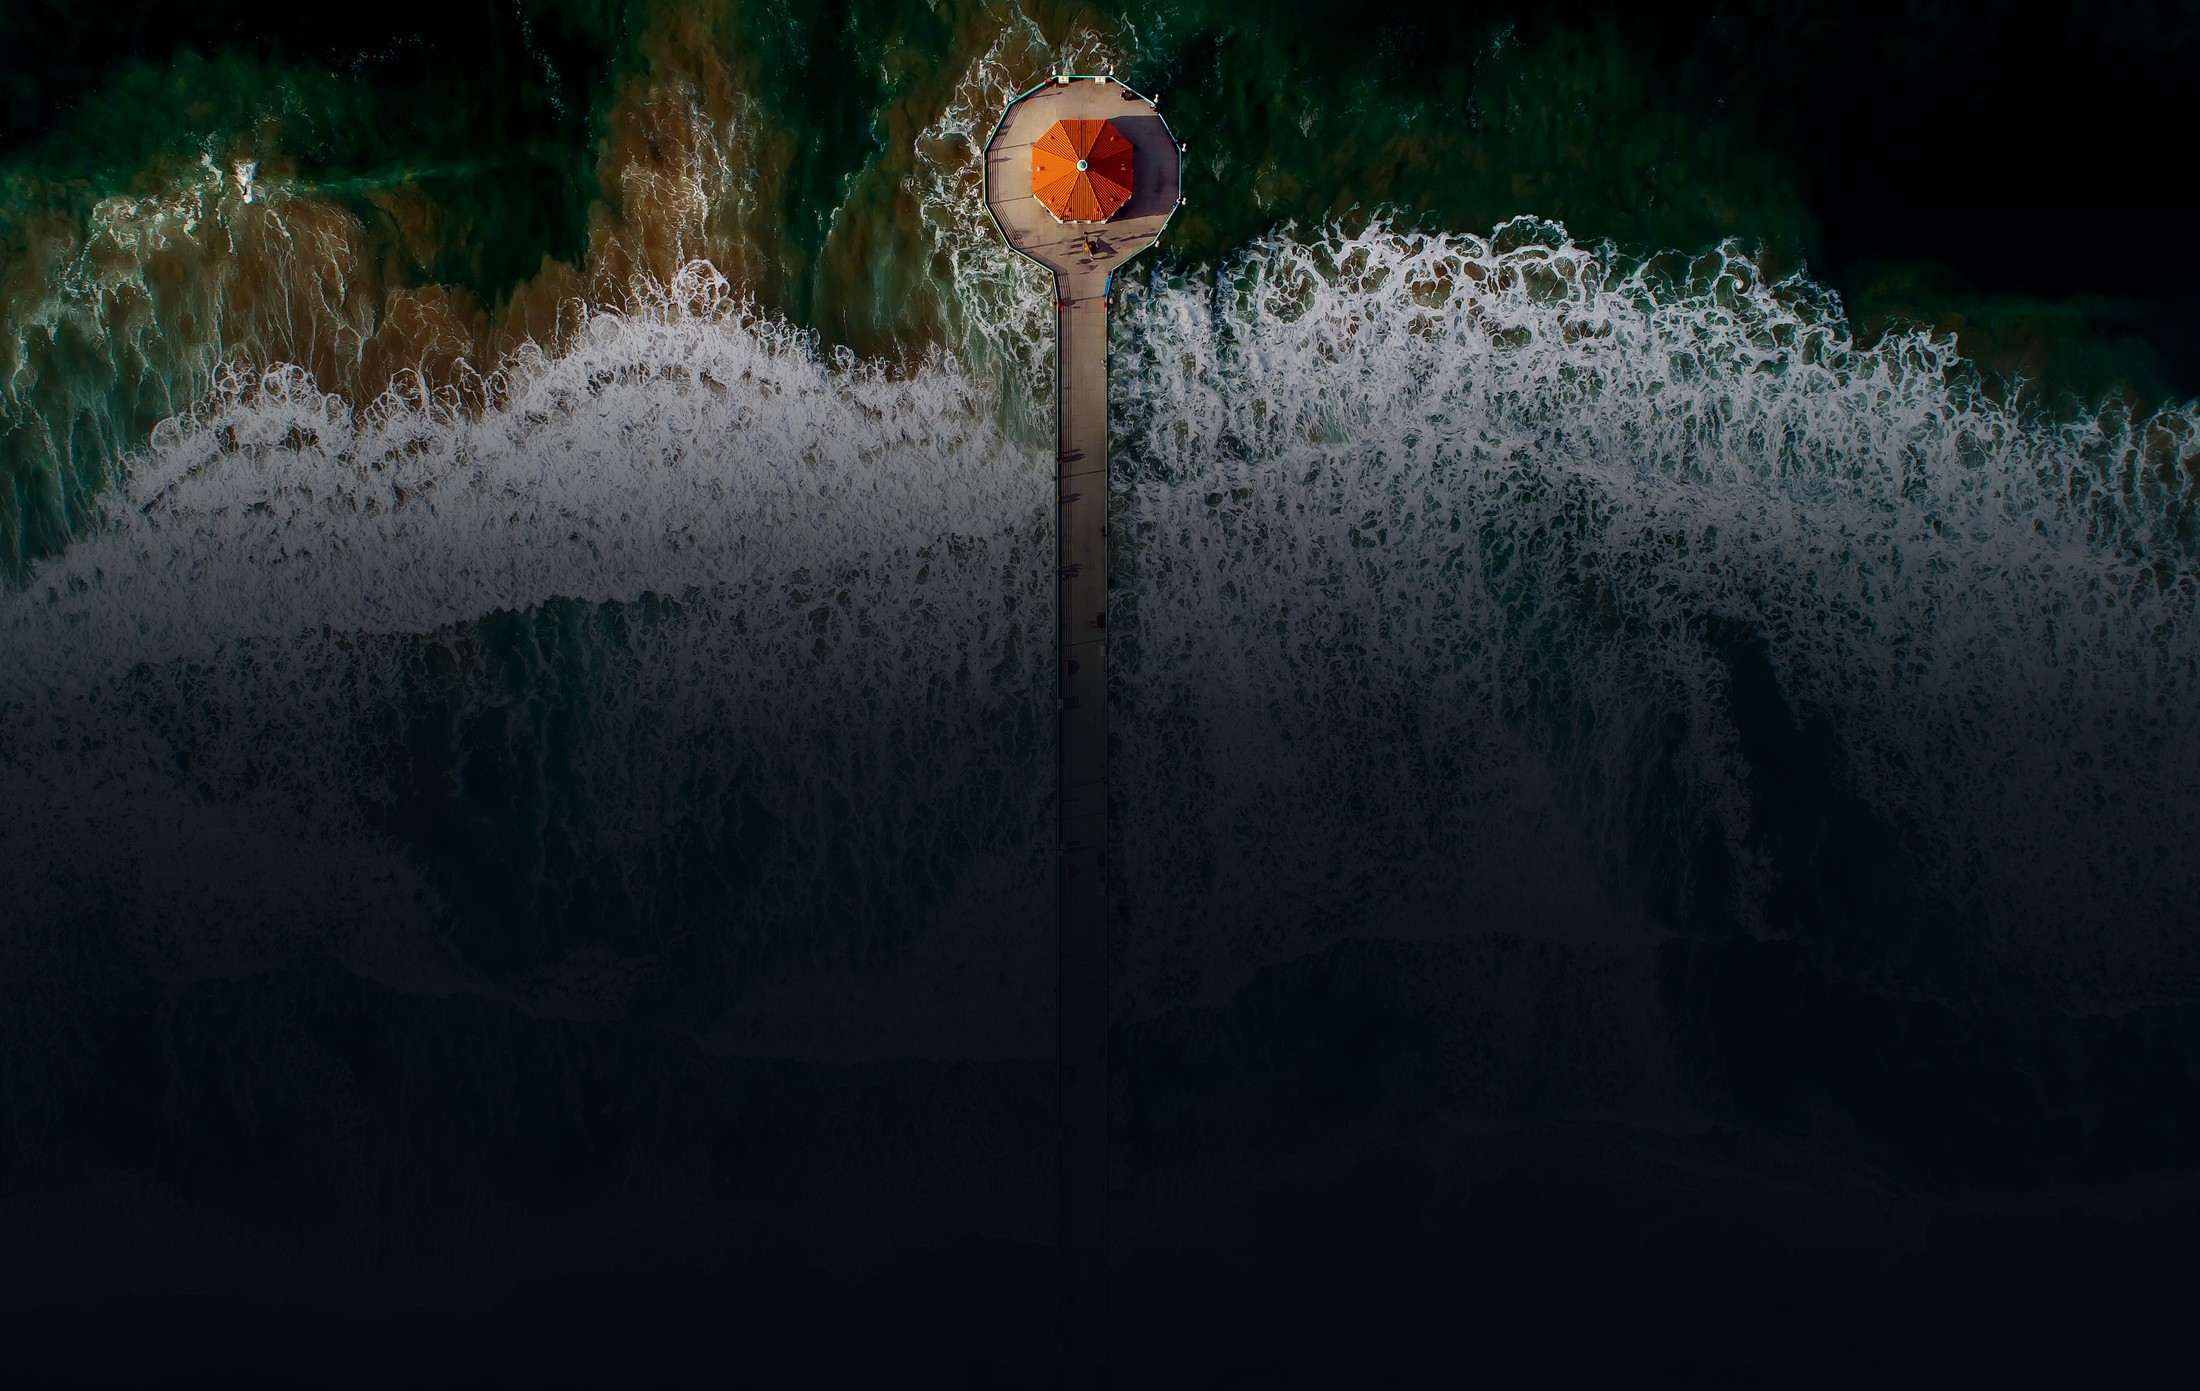
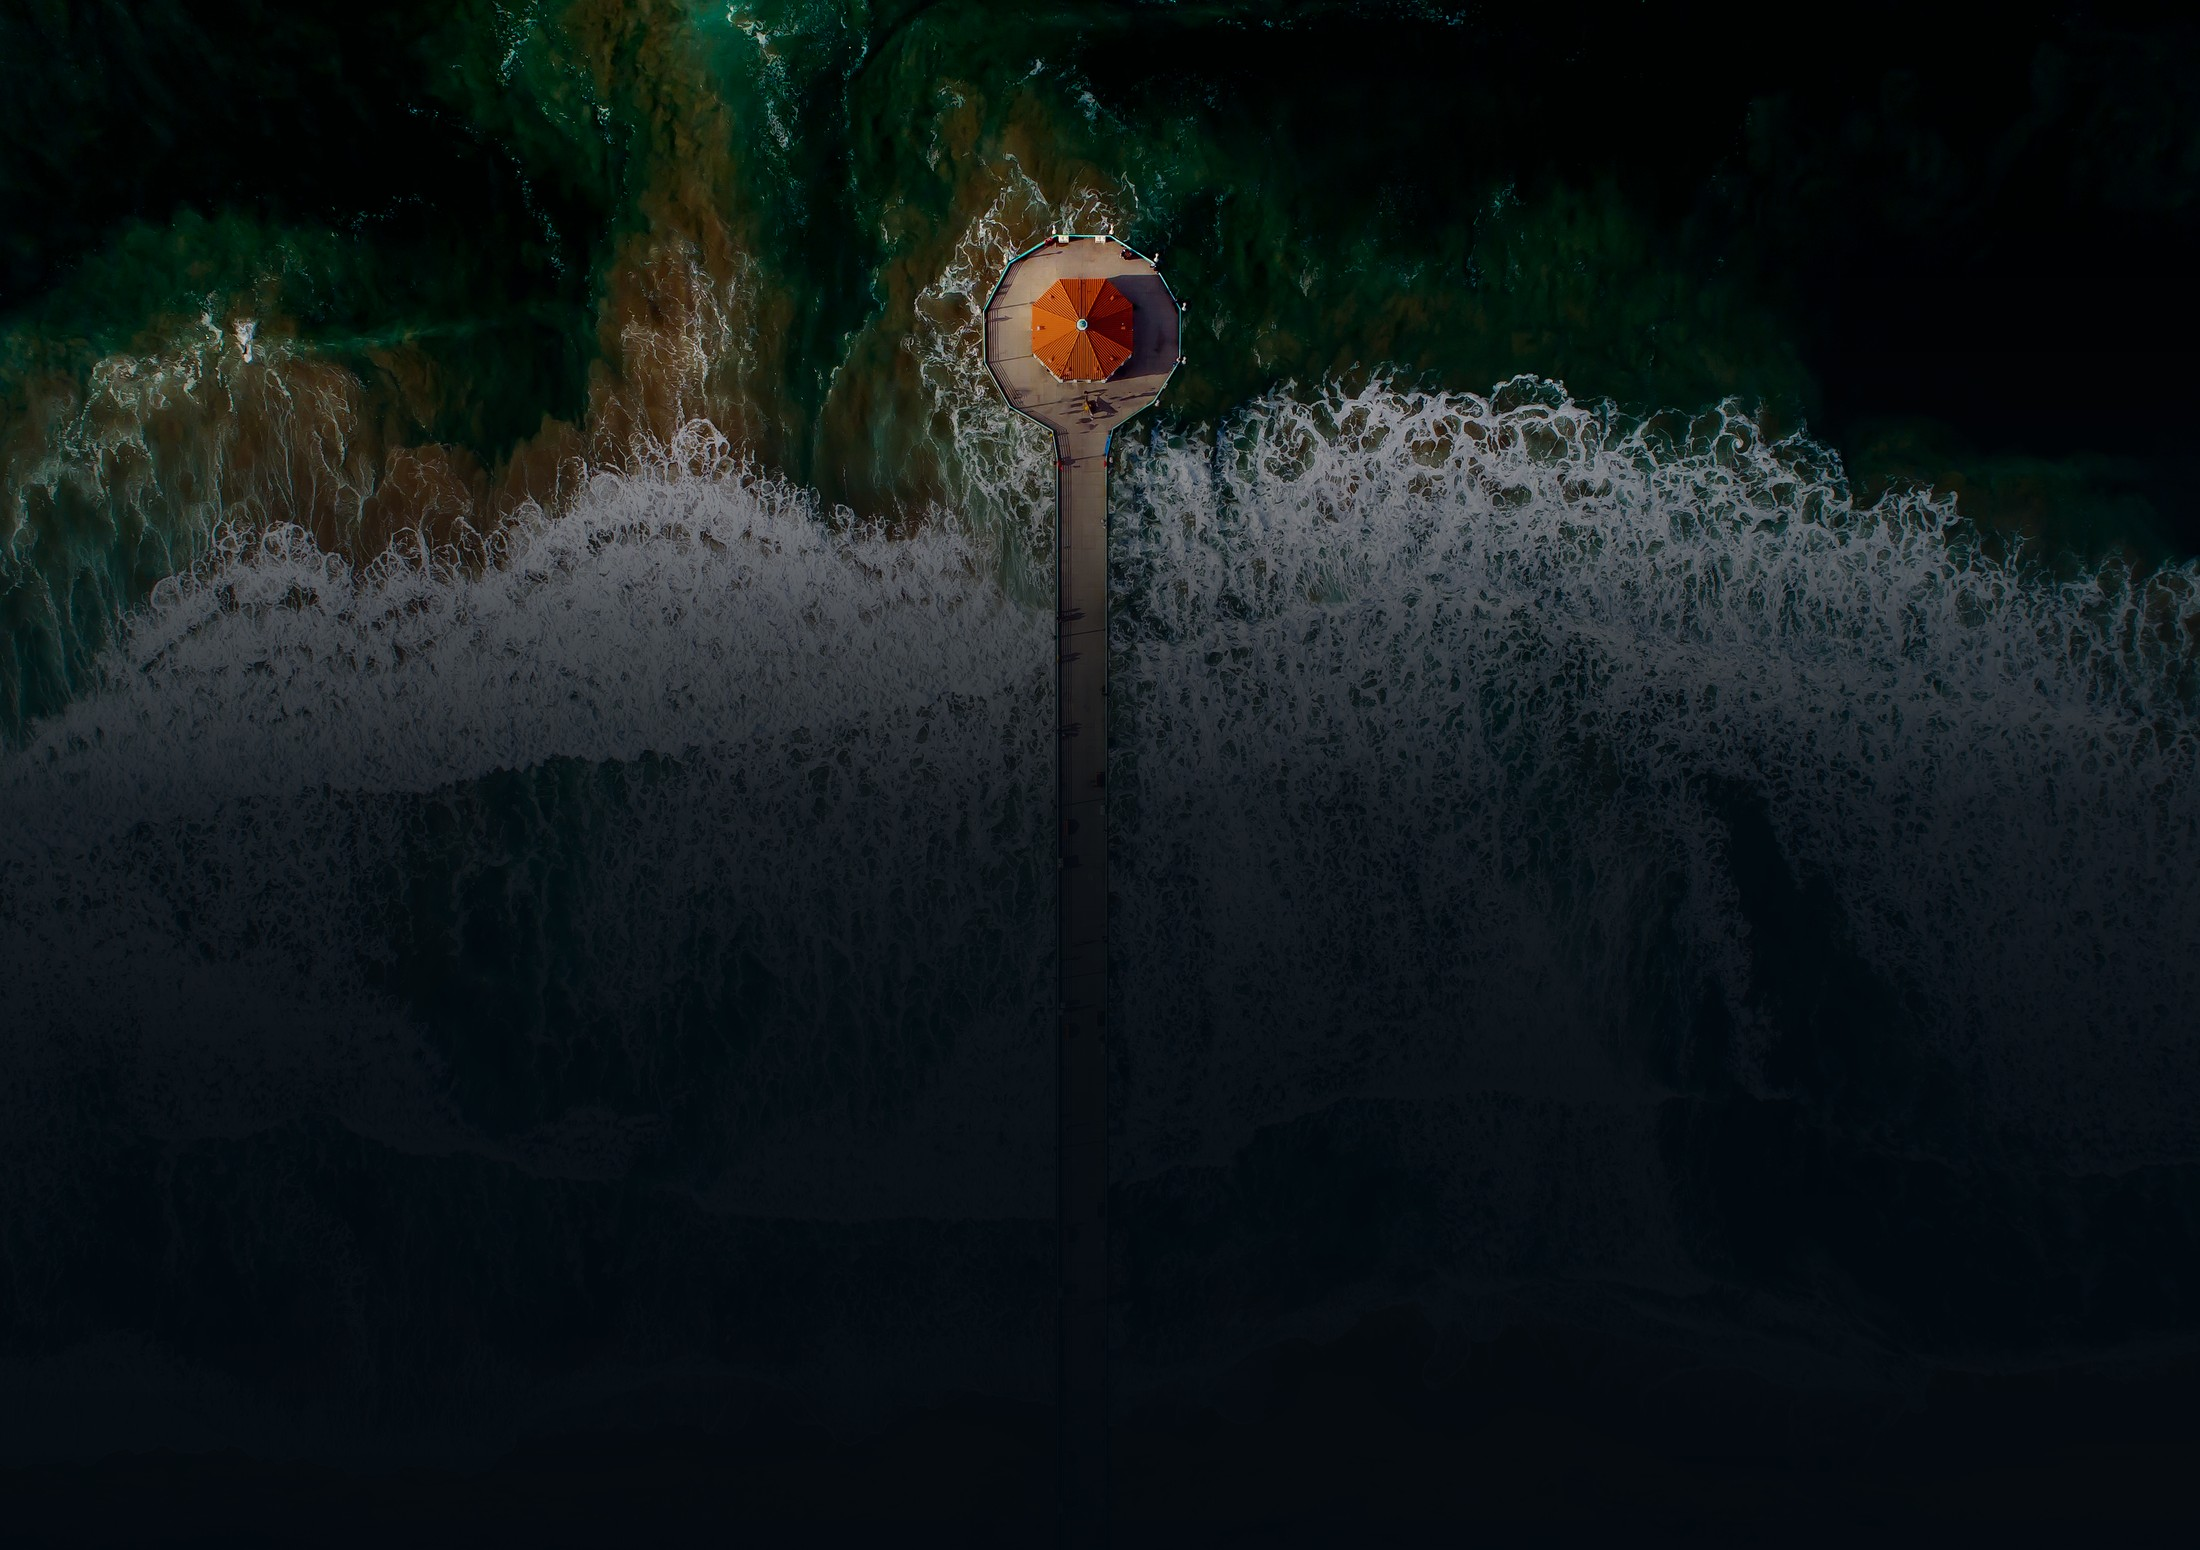
Fix hero pavilion clipping on wide desktop viewports: add headroom to crop, change object-position to top

Changed region(s): [[0.0, 0.0, 1.0, 0.5255], [0.0618, 0.4637, 0.0927, 0.4946]]

diff --git a/index.html b/index.html
@@ -25,7 +25,7 @@ h1{margin:0 0 18px;font-family:'Cormorant Garamond',serif;font-weight:500;font-s
 .cta-row{display:flex;gap:14px;flex-wrap:wrap}.btn{display:inline-flex;align-items:center;justify-content:center;min-height:64px;padding:0 36px;border-radius:999px;text-decoration:none;font-weight:700;font-size:1.08rem}.btn-primary{background:var(--accent);color:#fff}.btn-secondary{background:var(--accent);color:#fff;border:1px solid var(--accent)}
 .hero{position:relative;overflow:hidden;padding:0;min-height:min(86vh,760px);display:flex;flex-direction:column;justify-content:flex-end;isolation:isolate}
 .hero-media{position:absolute;inset:0;z-index:0}
-.hero-media img{width:100%;height:100%;object-fit:cover;object-position:center 38%;transform:scale(1.03)}
+.hero-media img{width:100%;height:100%;object-fit:cover;object-position:center top;transform:scale(1.03)}
 .hero-media::after{content:"";position:absolute;inset:0;background:linear-gradient(180deg,rgba(4,14,22,.08) 0%,rgba(4,14,22,.10) 15%,rgba(4,14,22,.40) 28%,rgba(3,12,19,.72) 40%,rgba(2,9,15,.90) 52%,rgba(2,8,13,.96) 68%,rgba(1,7,12,.99) 100%)}
 .hero-inner{position:relative;z-index:2;padding:0 0 52px;display:flex;flex-direction:column;justify-content:flex-end;min-height:min(86vh,760px)}
 .hero-copy{max-width:600px;opacity:0;transform:translateY(18px);animation:heroRise .9s cubic-bezier(.16,1,.3,1) .1s forwards}